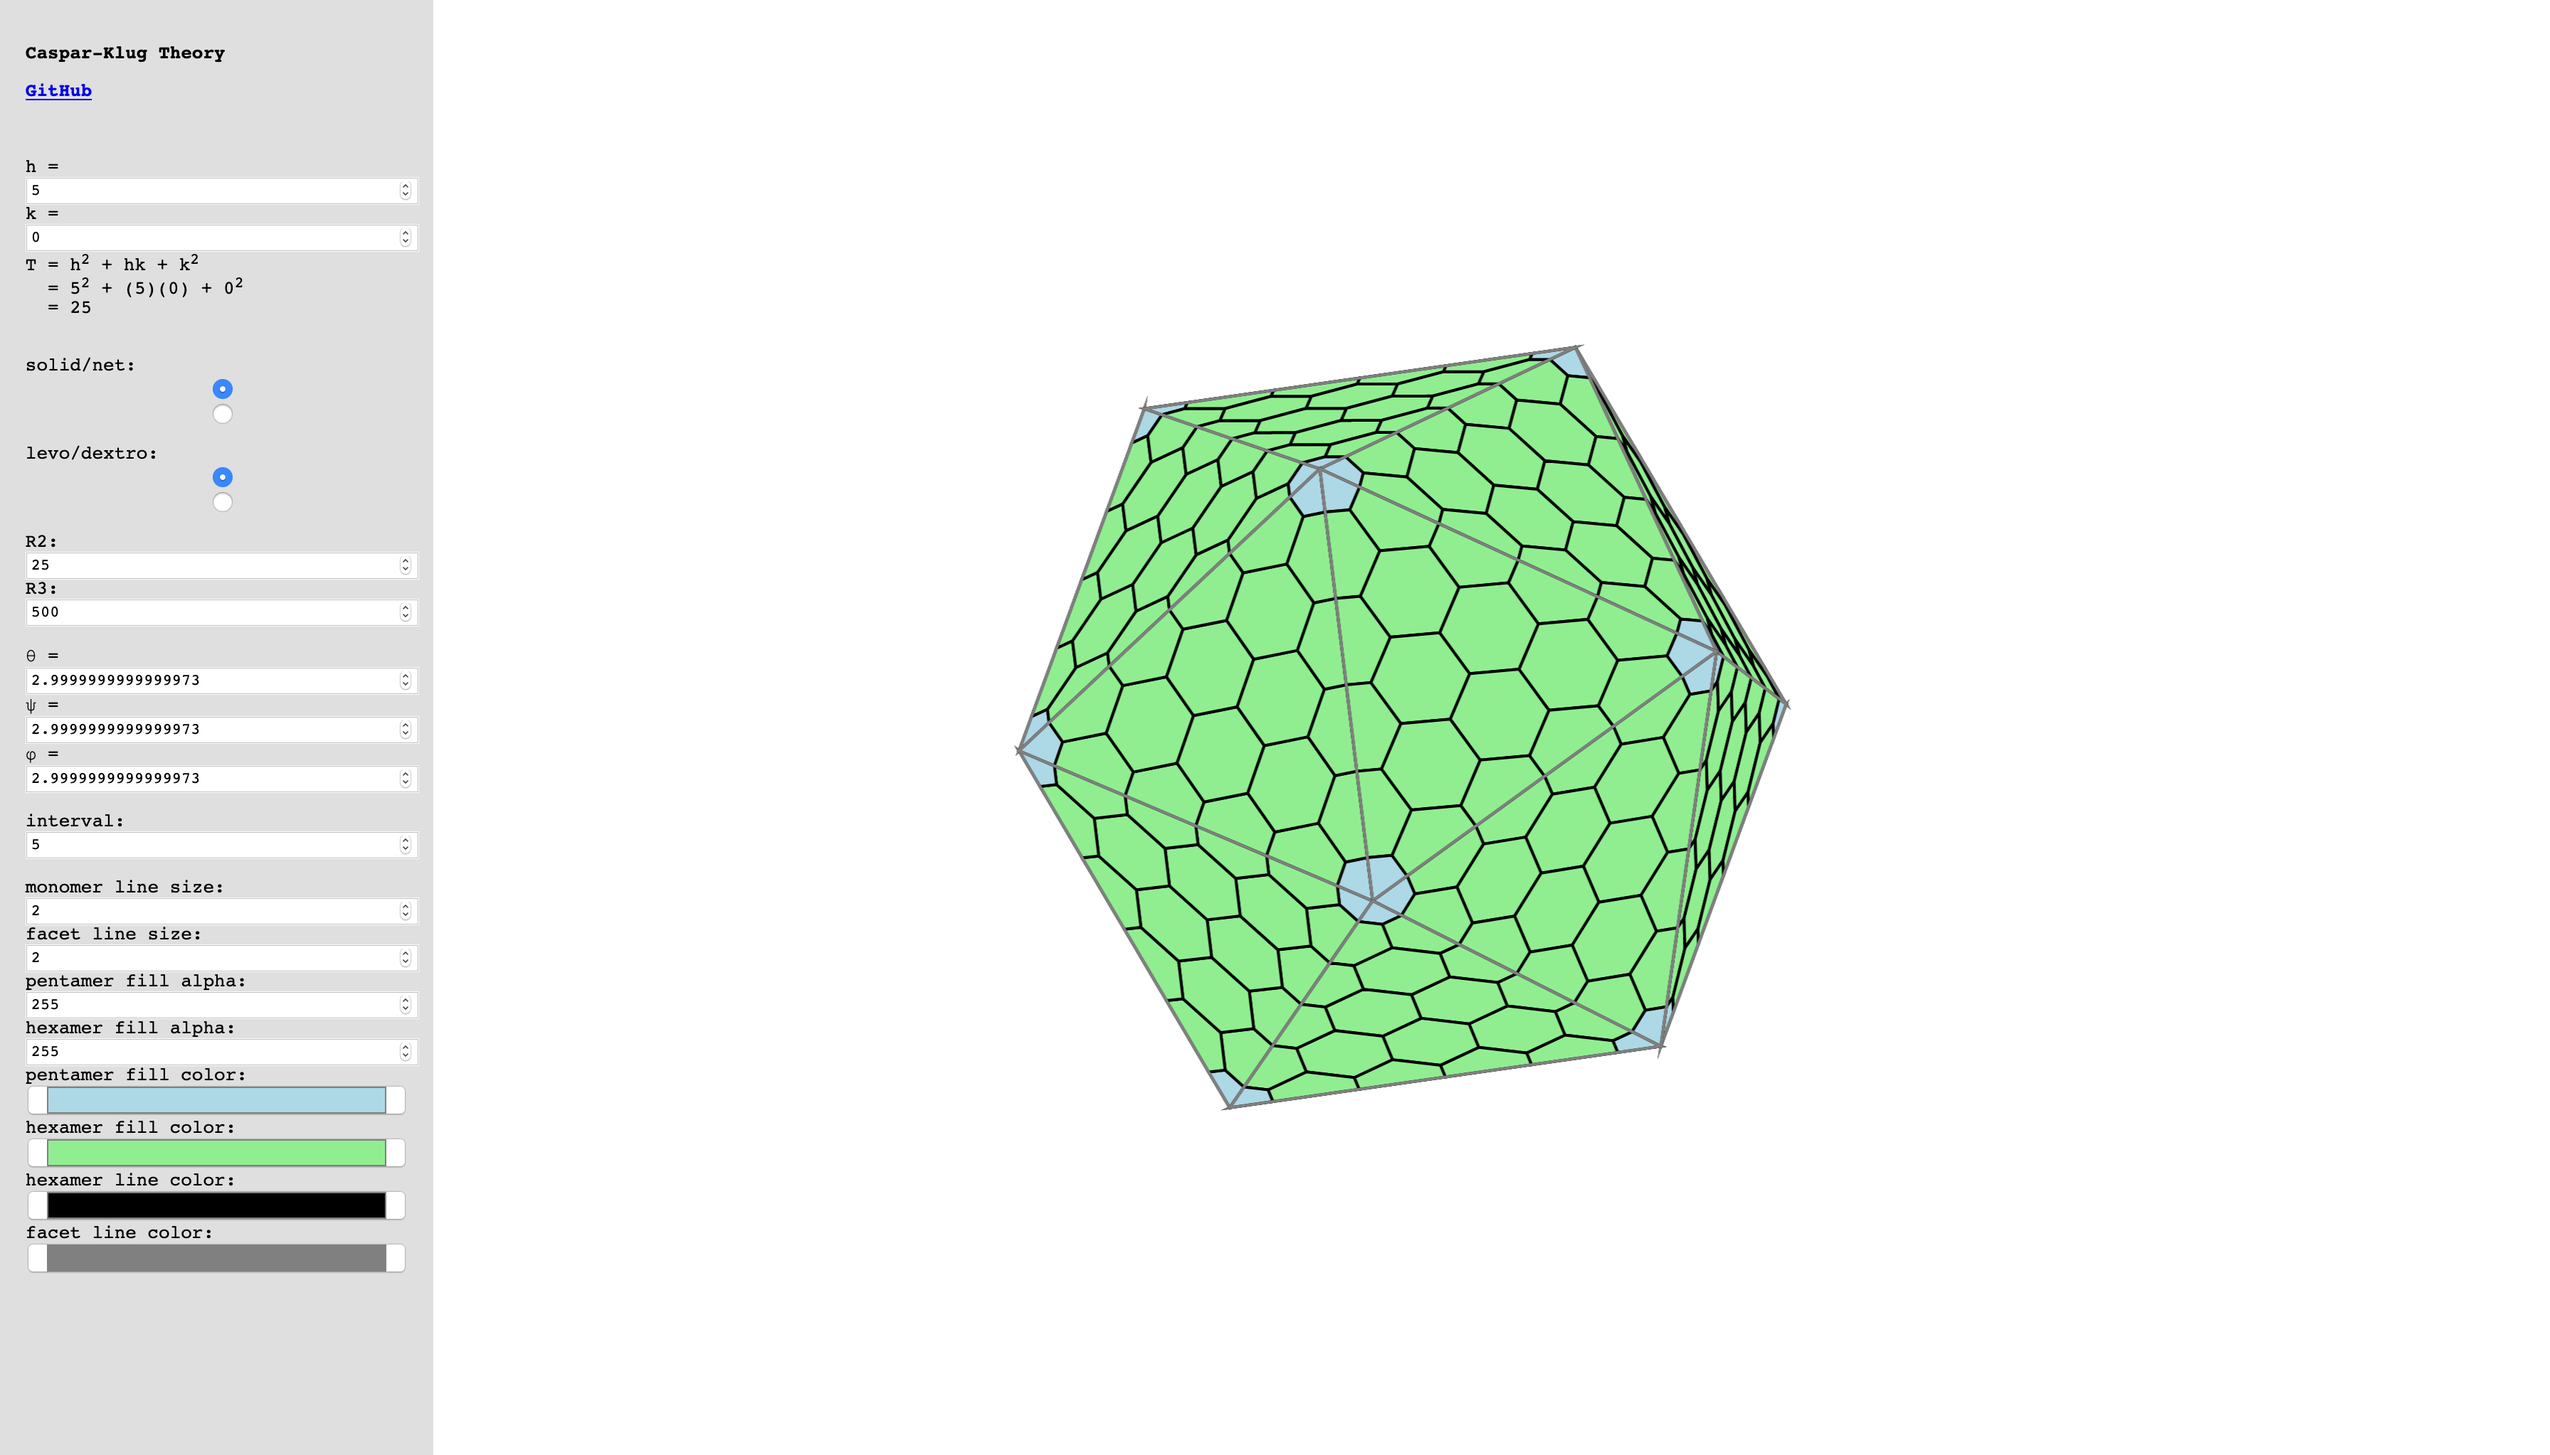
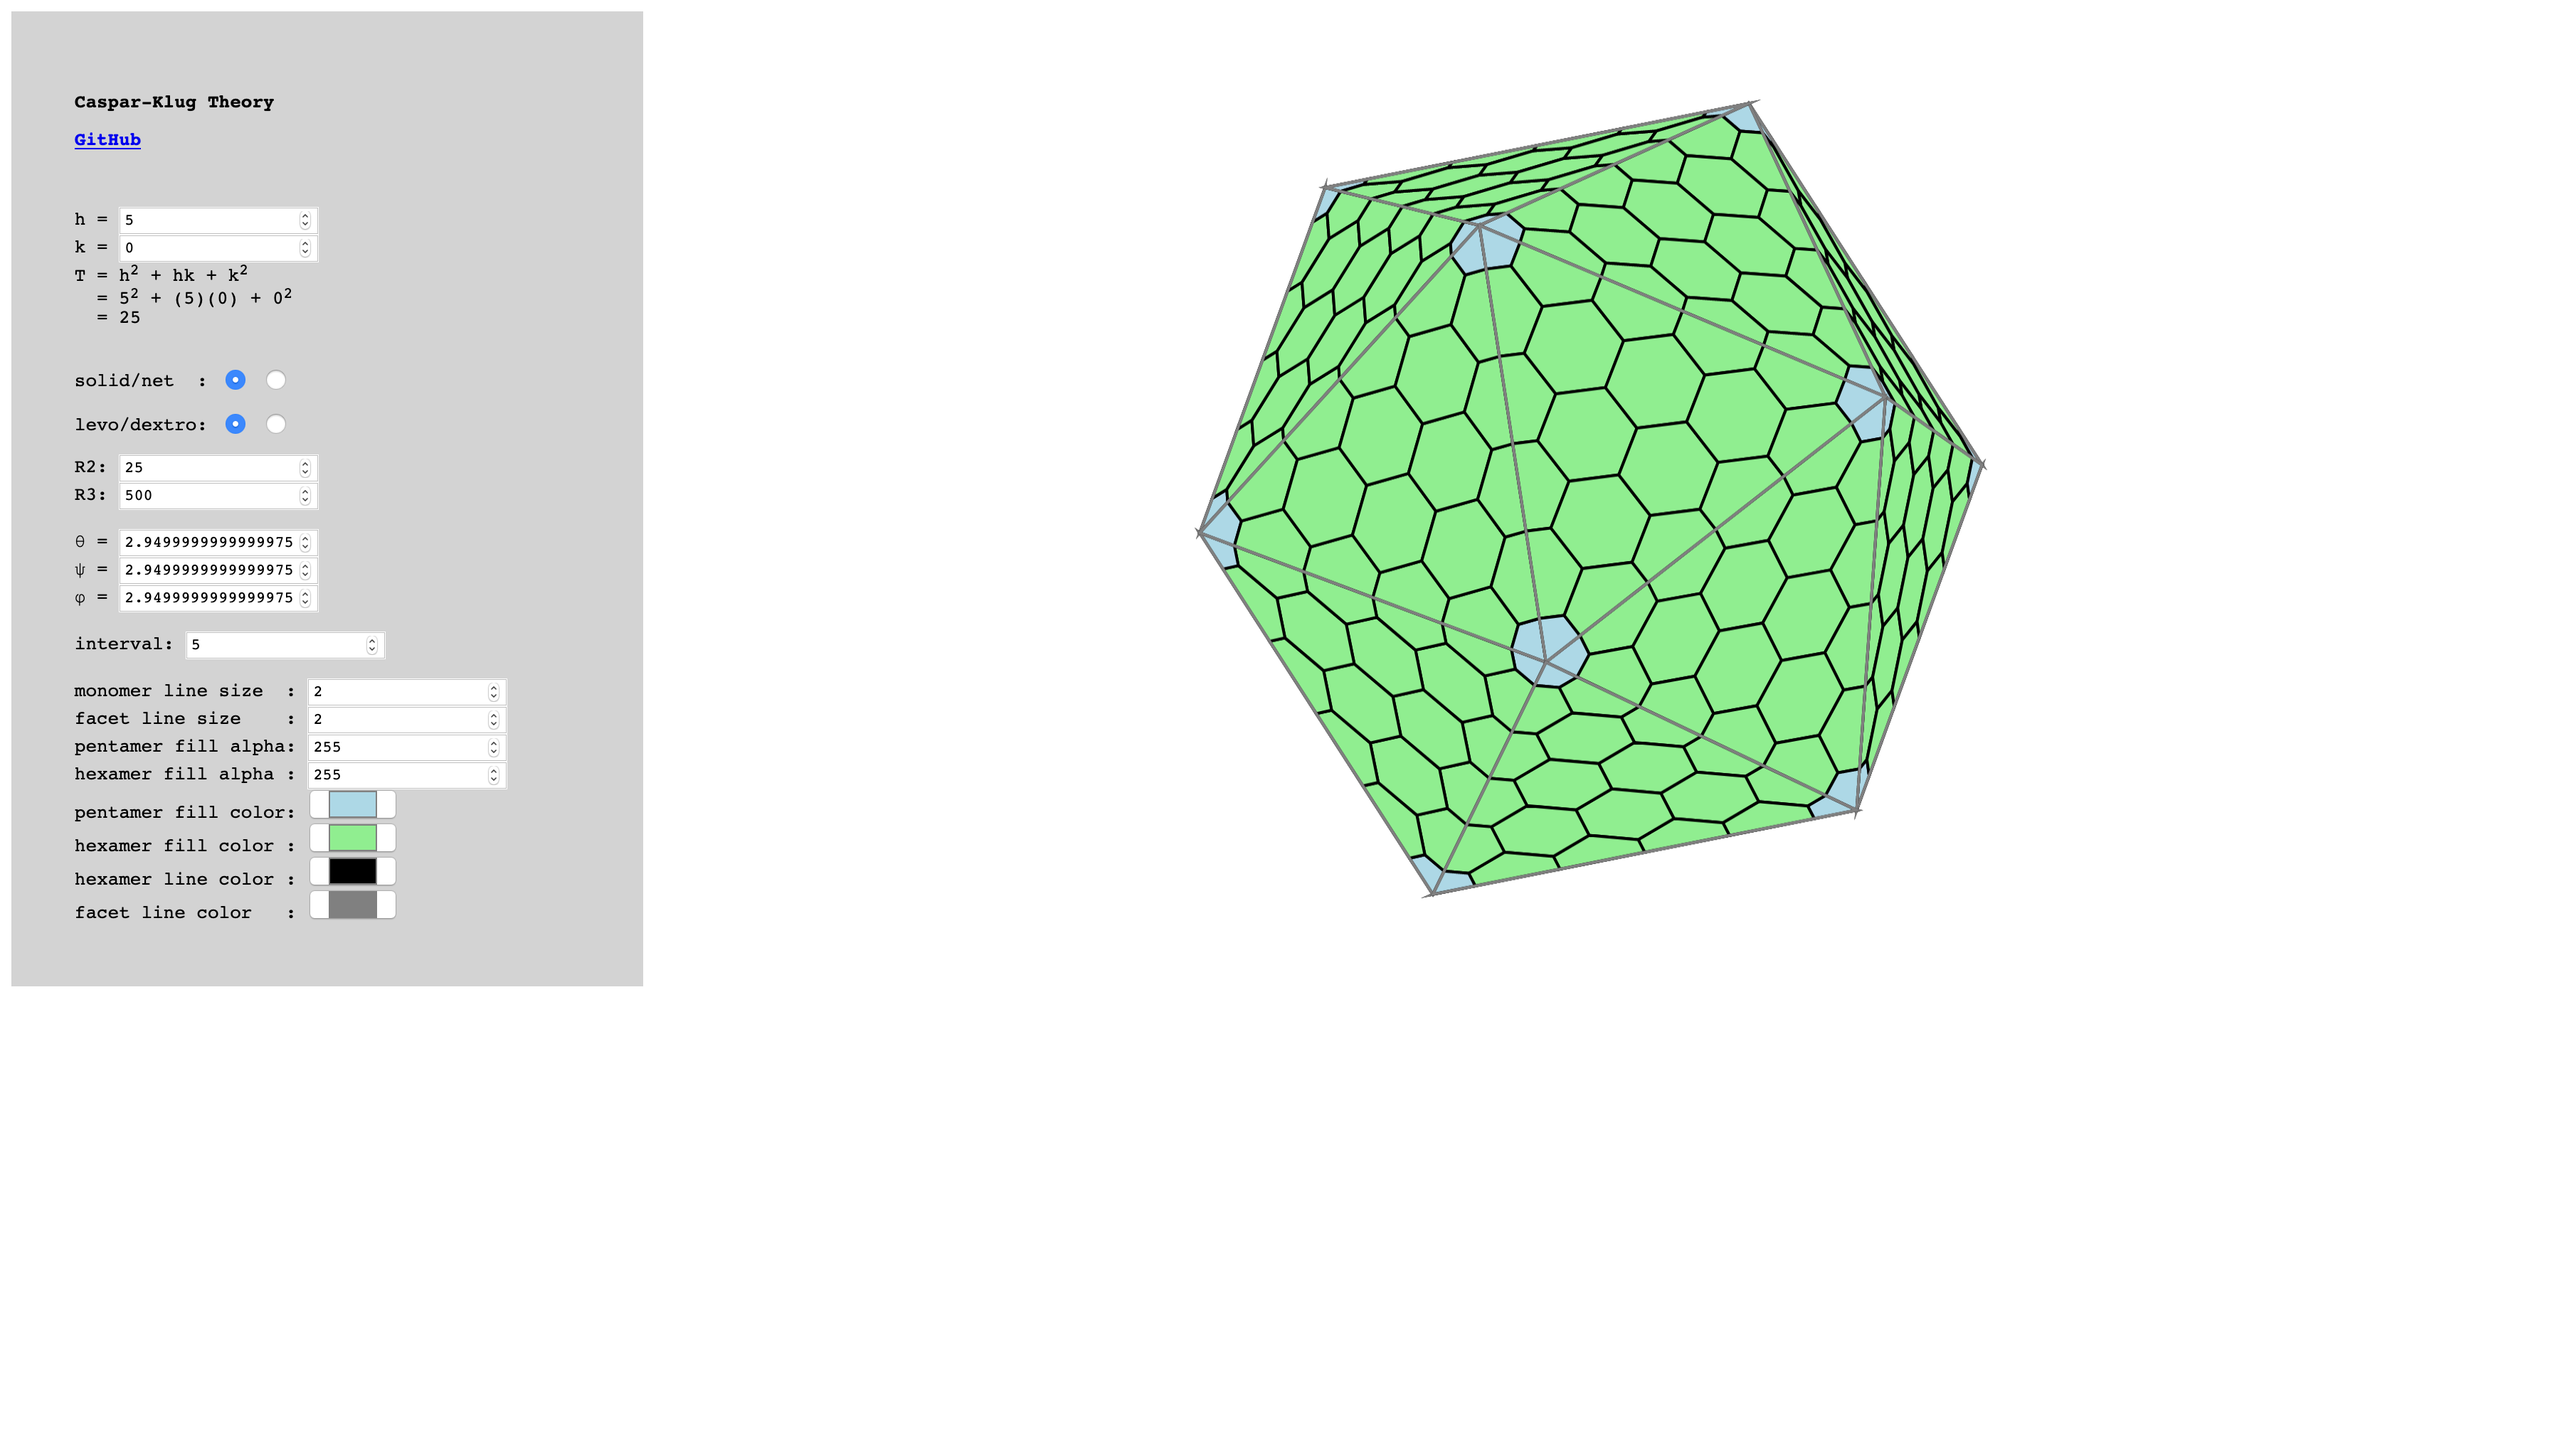
use CSS grid

Changed region(s): [[0.0, 0.0, 0.25, 1.0], [0.375, 0.0616, 0.7812, 0.7698]]

diff --git a/capsid.html b/capsid.html
@@ -10,33 +10,25 @@
             font-family: monospace;
         }
 
-        .split {
-            height: 100%;
-            position: fixed;
-            z-index: 1;
-            top: 0;
-            overflow-x: hidden;
+        .grid-container {
+            display: grid;
+            grid-template-columns: 1fr 1fr 1fr 1fr;
+            grid-template-rows: 1fr 1fr 1fr;
+            gap: 0px 0px;
+            grid-template-areas:
+                "options view view view"
+                "options view view view"
+                "options view view view";
         }
 
-        .left {
-            left: 0;
-            width: 15%;
-            background-color: #80808040;
-            padding: 1%;
+        .options {
+            grid-area: options;
+            background-color: lightgray;
+            padding: 10%;
         }
 
-        .right {
-            right: 0;
-            width: 90%;
-        }
-
-        input {
-            display: inline-block;
-            width: 100%;
-        }
-
-        input[type=color] {
-            width: 100%;
+        .view {
+            grid-area: view;
         }
 
         canvas[resize] {
@@ -48,74 +40,78 @@
 </head>
 
 <body>
-    <div class="split left">
-        <strong>
-            <p>Caspar-Klug Theory</p>
-            <p><a href="https://github.com/dnanto/capsid">GitHub</a></p>
-        </strong>
-        <br><br>
+    <div class="grid-container">
+        <div class="options">
+            <strong>
+                <p>Caspar-Klug Theory</p>
+                <p><a href="https://github.com/dnanto/capsid">GitHub</a></p>
+            </strong>
+            <br><br>
 
-        <label for="h">h&nbsp;=</label><input type="number" name="h" id="h" step="1" value="5" min="0">
-        <br>
-        <label for="k">k&nbsp;=</label><input type="number" name="k" id="k" step="1" value="0" min="0">
-        <div>T&nbsp;=&nbsp;h<sup>2</sup>&nbsp;+&nbsp;hk&nbsp;+&nbsp;k<sup>2</sup></div>
-        <div id="tnumber"></div>
-        <br><br>
+            <label for="h">h&nbsp;=&nbsp;</label><input type="number" name="h" id="h" step="1" value="5" min="0">
+            <br>
+            <label for="k">k&nbsp;=&nbsp;</label><input type="number" name="k" id="k" step="1" value="0" min="0">
+            <div>T&nbsp;=&nbsp;h<sup>2</sup>&nbsp;+&nbsp;hk&nbsp;+&nbsp;k<sup>2</sup></div>
+            <div id="tnumber"></div>
+            <br><br>
 
-        <label for="topology">solid/net:</label>
-        <input type="radio" name="topology" id="solid" checked>
-        <input type="radio" name="topology" id="net">
-        <br><br>
+            <label for="topology">solid/net&nbsp;&nbsp;:</label>
+            <input type="radio" name="topology" id="solid" checked>
+            <input type="radio" name="topology" id="net">
+            <br><br>
 
-        <label for="rotation">levo/dextro:</label>
-        <input type="radio" name="rotation" id="levo" checked>
-        <input type="radio" name="rotation" id="dextro">
-        <br><br>
+            <label for="rotation">levo/dextro:</label>
+            <input type="radio" name="rotation" id="levo" checked>
+            <input type="radio" name="rotation" id="dextro">
+            <br><br>
 
-        <label for="R">R2:</label>
-        <input type="number" name="R2" id="R2" step="1" value="25" min="0">
-        <br>
-        <label for="R">R3:</label>
-        <input type="number" name="R3" id="R3" step="1" value="500" min="0">
-        <br><br>
+            <label for="R">R2:</label>
+            <input type="number" name="R2" id="R2" step="1" value="25" min="0">
+            <br>
+            <label for="R">R3:</label>
+            <input type="number" name="R3" id="R3" step="1" value="500" min="0">
+            <br><br>
 
-        <label for="θ">θ&nbsp;=</label><input type="number" name="θ" id="θ" step="any" value="0" min="0">
-        <br>
-        <label for="ψ">ψ&nbsp;=</label><input type="number" name="ψ" id="ψ" step="any" value="0" min="0">
-        <br>
-        <label for="φ">φ&nbsp;=</label><input type="number" name="φ" id="φ" step="any" value="0" min="0">
-        <br><br>
+            <label for="θ">θ&nbsp;=&nbsp;</label><input type="number" name="θ" id="θ" step="any" value="0" min="0">
+            <br>
+            <label for="ψ">ψ&nbsp;=&nbsp;</label><input type="number" name="ψ" id="ψ" step="any" value="0" min="0">
+            <br>
+            <label for="φ">φ&nbsp;=&nbsp;</label><input type="number" name="φ" id="φ" step="any" value="0" min="0">
+            <br><br>
 
-        <label for="interval">interval:</label>
-        <br>
-        <input type="number" id="interval" value="5" min="0">
-        <br><br>
+            <label for="interval">interval:</label>
+            <input type="number" id="interval" value="5" min="0">
+            <br><br>
 
-        <label for="hexline">monomer line size:</label>
-        <input type="number" name="hexline" id="hexline" step="1" value="2" min="0">
-        <br>
-        <label for="fctline">facet line size:</label>
-        <input type="number" name="fctline" id="fctline" step="1" value="2" min="0">
-        <br>
-        <label for="penalph">pentamer fill alpha:</label>
-        <input type="number" name="penalph" id="penalph" step="1" value="255" min="0" max="255">
-        <br>
-        <label for="hexalph">hexamer fill alpha:</label>
-        <input type="number" name="hexalph" id="hexalph" step="1" value="255" min="0" max="255">
-        <br>
-        <label for="penfill">pentamer fill color:</label>
-        <input type="color" id="penfill" name="penfill" value="#ADD8E6">
-        <label for="hexfill">hexamer fill color:</label>
-        <input type="color" id="hexfill" name="hexfill" value="#90EE90">
-        <label for="hexoutl">hexamer line color:</label>
-        <input type="color" id="hexoutl" name="hexoutl" value="#000000">
-        <label for="fctoutl">facet line color:</label>
-        <input type="color" id="fctoutl" name="fctoutl" value="#808080">
-    </div>
-    <div class="split right">
-        <canvas id="canvas" resize>
-            Your browser does not support the HTML canvas tag.
-        </canvas>
+            <label for="hexline">monomer line size&nbsp;&nbsp;:</label>
+            <input type="number" name="hexline" id="hexline" step="1" value="2" min="0">
+            <br>
+            <label for="fctline">facet line size&nbsp;&nbsp;&nbsp;&nbsp;:</label>
+            <input type="number" name="fctline" id="fctline" step="1" value="2" min="0">
+            <br>
+            <label for="penalph">pentamer fill alpha:</label>
+            <input type="number" name="penalph" id="penalph" step="1" value="255" min="0" max="255">
+            <br>
+            <label for="hexalph">hexamer fill alpha&nbsp;:</label>
+            <input type="number" name="hexalph" id="hexalph" step="1" value="255" min="0" max="255">
+            <br>
+            <label for="penfill">pentamer fill color:</label>
+            <input type="color" id="penfill" name="penfill" value="#ADD8E6">
+            <br>
+            <label for="hexfill">hexamer fill color&nbsp;:</label>
+            <input type="color" id="hexfill" name="hexfill" value="#90EE90">
+            <br>
+            <label for="hexoutl">hexamer line color&nbsp;:</label>
+            <input type="color" id="hexoutl" name="hexoutl" value="#000000">
+            <br>
+            <label for="fctoutl">facet line color&nbsp;&nbsp;&nbsp;:</label>
+            <input type="color" id="fctoutl" name="fctoutl" value="#808080">
+        </div>
+        <div class="view">
+            <canvas id="canvas" resize>
+                Your browser does not support the HTML canvas tag.
+            </canvas>
+        </div>
     </div>
 </body>
 
